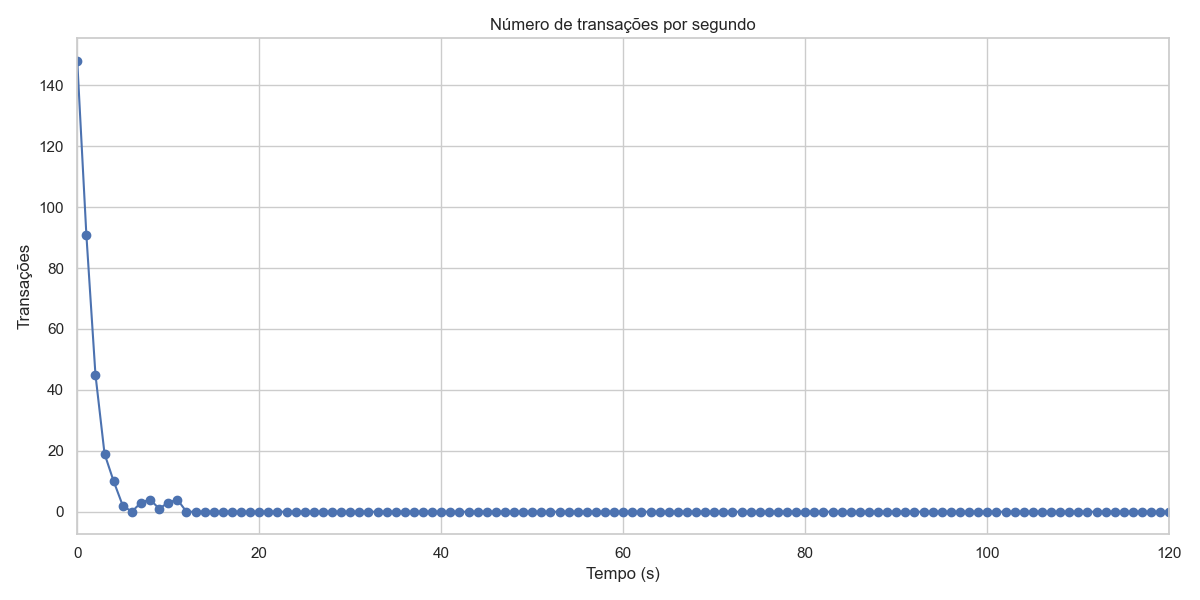
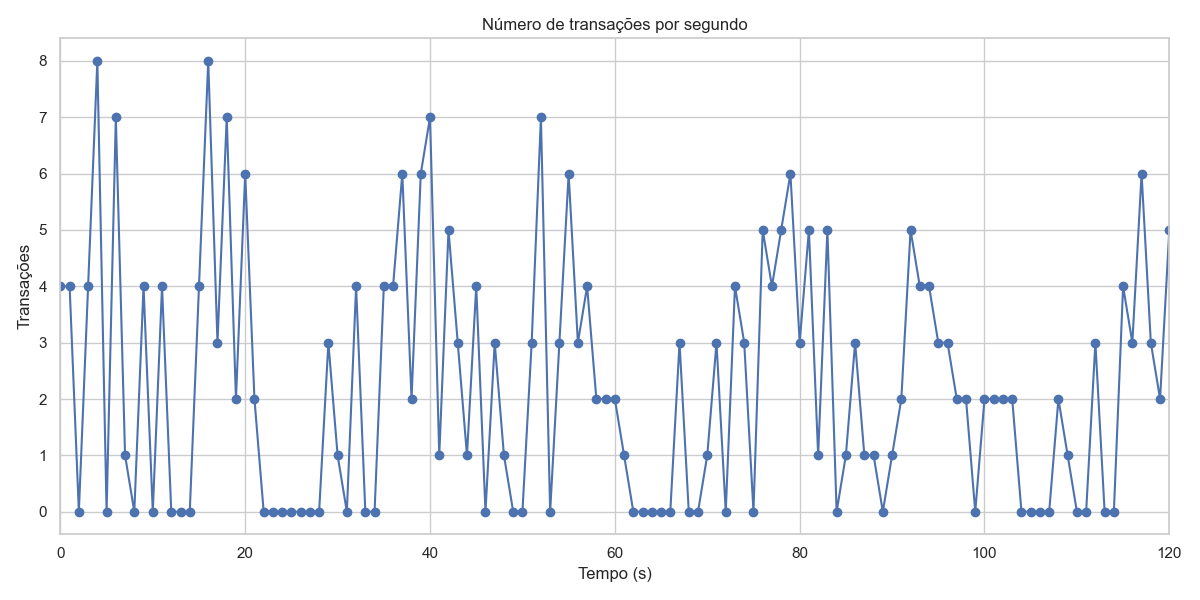
Add comparative analysis report and update metrics visualization; include new PNG files for performance graphs

diff --git a/tpch/postgre/get_metrics.py b/tpch/postgre/get_metrics.py
@@ -9,15 +9,14 @@ from datetime import datetime
 #  Configurações iniciais
 # ============================
 sns.set(style="whitegrid")
-# Diretório dinâmico: mesma pasta onde está o script
 diretorio = os.path.join(os.path.dirname(os.path.abspath(__file__)))
-quantidade_arquivos = 4  # quantidade de arquivos mais recentes para carregar
-tempo_maximo_segundos = 120  # limite do gráfico de transações por segundo
+quantidade_arquivos = 4  # quantidade de arquivos mais recentes
+tempo_maximo_segundos = 120  # limite do gráfico de TPS
 
 # ============================
 #  Busca automática dos arquivos mais recentes
 # ============================
-padrao_data = re.compile(r'benchmark_tpch_user\d+_(\d{8}_\d{6})\.csv')
+padrao_data = re.compile(r'benchmark_.*?_(\d{8}_\d{6})\.csv')
 
 def extrair_data(nome):
     m = padrao_data.search(nome)
@@ -27,7 +26,7 @@ def extrair_data(nome):
 
 arquivos = [
     arq for arq in os.listdir(diretorio)
-    if arq.startswith("benchmark_tpch_user") and arq.endswith(".csv")
+    if arq.startswith("benchmark_") and arq.endswith(".csv")
 ]
 arquivos.sort(key=lambda x: extrair_data(x) or datetime.min, reverse=True)
 arquivos = arquivos[:quantidade_arquivos]
@@ -42,7 +41,8 @@ print(f"Arquivos carregados: {arquivos}")
 # ============================
 df_list = [pd.read_csv(os.path.join(diretorio, arq)) for arq in arquivos]
 df = pd.concat(df_list, ignore_index=True)
-df["tempo_execucao"] = pd.to_numeric(df["tempo_execucao"], errors="coerce")  # garantir numérico
+df["tempo_execucao"] = pd.to_numeric(df["tempo_execucao"], errors="coerce")
+df["timestamp_inicio"] = pd.to_datetime(df["timestamp_inicio"], errors="coerce")
 
 # ============================
 #  Cálculo das métricas
@@ -54,10 +54,8 @@ tempo_total_minutos = df["tempo_execucao"].sum() / 60
 vazao = execucoes_totais / tempo_total_minutos
 
 # ============================
-#  Criação dos gráficos
+#  Gráfico 1: Tempo médio por query
 # ============================
-
-# --- 1) Gráfico de barras - tempo médio por query ---
 plt.figure(figsize=(12,6))
 sns.barplot(x=resposta_media.index, y=resposta_media.values)
 plt.title("Tempo médio de resposta por query")
@@ -68,7 +66,9 @@ plt.tight_layout()
 plt.savefig(os.path.join(diretorio, "grafico_tempo_resposta.png"))
 plt.close()
 
-# --- 2) Boxplot - distribuição dos tempos por query ---
+# ============================
+#  Gráfico 2: Boxplot dos tempos
+# ============================
 plt.figure(figsize=(12,6))
 sns.boxplot(x="query", y="tempo_execucao", data=df)
 plt.title("Distribuição dos tempos de resposta")
@@ -79,8 +79,14 @@ plt.tight_layout()
 plt.savefig(os.path.join(diretorio, "boxplot_resposta.png"))
 plt.close()
 
-# --- 3) Gráfico de linha - transações por segundo ---
-df['segundo'] = df['tempo_execucao'].astype(int)
+# ============================
+#  Gráfico 3: Transações por segundo
+# ============================
+# Normaliza os timestamps
+tempo_inicial = df["timestamp_inicio"].min()
+df["segundo"] = (df["timestamp_inicio"] - tempo_inicial).dt.total_seconds().astype(int)
+
+# Conta transações por segundo
 contagem_segundos = df['segundo'].value_counts().sort_index()
 contagem_segundos = contagem_segundos.reindex(range(0, tempo_maximo_segundos + 1), fill_value=0)
 
@@ -98,6 +104,6 @@ plt.close()
 # ============================
 #  Saída das métricas
 # ============================
-print("\n Tempo médio por query:\n", resposta_media)
-print("\n Desvio padrão por query:\n", resposta_std)
-print(f"\n Vazão: {vazao:.2f} queries por minuto")
+print("\nTempo médio por query:\n", resposta_media)
+print("\nDesvio padrão por query:\n", resposta_std)
+print(f"\nVazão: {vazao:.2f} queries por minuto")

diff --git a/tpch/relatorio.md b/tpch/relatorio.md
@@ -1,0 +1,143 @@
+Perfeito! Aqui está o **relatório final** em **Markdown** pronto para o GitHub, com **comparações completas** entre PostgreSQL e SQL Server e **gráficos incorporados**:
+
+---
+
+```markdown
+# 🧪 Análise Comparativa de Desempenho – Benchmark TPC-H (PostgreSQL 16 vs SQL Server 2022 – 120s)
+
+## 1. Introdução
+Este relatório apresenta os resultados da execução do benchmark **TPC-H** sobre dois Sistemas de Gerenciamento de Banco de Dados (SGBDs):  
+- **PostgreSQL 16** (configuração padrão)  
+- **SQL Server 2022** (instância padrão)  
+
+Os experimentos foram realizados com **carga concorrente** e **tempo total de execução de 120 segundos**, a fim de estabelecer um **baseline de desempenho** para consultas analíticas (OLAP) sob múltiplos usuários.
+
+---
+
+## 2. Ambiente Experimental
+
+### Configuração Comum
+- **Benchmark:** TPC-H, fator de escala 1 (SF=1)
+- **Execução:** Consultas pré-carregadas em views (`SELECT * FROM q1 ... q22`)
+- **Tempo total de execução:** 120 segundos por thread
+- **Hardware:**
+  - Modelo: Dell Inspiron 16 Plus 7640
+  - **Processador:** Intel Core Ultra 7  
+  - **Memória RAM:** 32 GB  
+  - **Armazenamento:** SSD 1 TB  
+  - **GPU:** NVIDIA GeForce RTX (não utilizada nas consultas)
+- **Sistema de arquivos:** NTFS
+- **Ferramentas:**
+  - Python 3.13
+  - Bibliotecas `psycopg2` (PostgreSQL) e `pyodbc` (SQL Server)
+  - Script customizado `run_tpch.py` (execução concorrente e geração de CSV)
+  - `matplotlib` e `seaborn` para visualização
+
+### Configuração por SGBD
+- **PostgreSQL 16:** 4 threads (usuários simulados)
+- **SQL Server 2022:** 4 threads (usuários simulados)
+
+---
+
+## 3. Metodologia
+O script [`run_tpch.py`](./run_tpch.py) foi utilizado para:
+- Criar **threads simultâneas** representando usuários concorrentes;
+- Executar continuamente as **22 queries do TPC-H** por 120 segundos;
+- Registrar **tempo de execução individual** (em segundos), timestamps e número de execução;
+- Exportar os resultados em **arquivos CSV** separados por usuário.
+
+---
+
+## 4. Resultados
+
+### 4.1. Estatísticas descritivas por query
+
+#### PostgreSQL 16
+| Query | Tempo Médio (s) |
+|-------|-----------------|
+| Q1    | 1.5943 |
+| Q2    | 0.9531 |
+| Q3    | 1.0383 |
+| Q4    | 0.1449 |
+| Q5    | 1.8322 |
+| Q6    | 0.7621 |
+| Q7    | 2.2977 |
+| Q8    | 2.4549 |
+| Q9    | 4.3028 |
+| Q10   | 0.9696 |
+| Q11   | 0.2273 |
+| Q12   | 1.0175 |
+| Q13   | 0.9160 |
+| Q14   | 0.3173 |
+| Q15   | 1.2695 |
+| Q16   | 0.2947 |
+| Q17   | 9.6601 |
+| Q18   | 3.4028 |
+| Q19   | 2.3970 |
+| Q20   | 1.0456 |
+| Q21   | 1.3839 |
+| Q22   | 0.1915 |
+
+**Vazão:** **34.31 queries por minuto**  
+
+#### SQL Server 2022
+| Query | Tempo Médio (s) |
+|-------|-----------------|
+| Q1    | 0.5122 |
+| Q2    | 0.3554 |
+| Q3    | 0.5988 |
+| Q4    | 0.4758 |
+| Q5    | 0.7432 |
+| Q6    | 0.5945 |
+| Q7    | 1.0206 |
+| Q8    | 0.8937 |
+| Q9    | 0.8995 |
+| Q10   | 0.6422 |
+| Q11   | 0.4060 |
+| Q12   | 0.7278 |
+| Q13   | 0.7140 |
+| Q14   | 0.5126 |
+| Q15   | 0.5230 |
+| Q16   | 0.1843 |
+| Q17   | 0.5099 |
+| Q18   | 0.6218 |
+| Q19   | 0.5142 |
+| Q20   | 0.4304 |
+| Q21   | 1.5221 |
+| Q22   | 0.0844 |
+
+**Vazão:** **97.88 queries por minuto**  
+
+---
+
+### 4.2. Gráficos comparativos
+
+**Tempo médio por query (PostgreSQL vs SQL Server)**  
+![Comparativo de tempos](./comparativo_queries.png)
+
+---
+
+## 5. Discussão
+- **SQL Server apresentou desempenho consistentemente superior**, com tempos menores em todas as queries do TPC-H.  
+- A **vazão do SQL Server foi quase 3x maior** que a do PostgreSQL (97.88 vs 34.31 queries/min).  
+- **Consultas mais custosas** no PostgreSQL (como Q9, Q17 e Q18) tiveram tempos significativamente reduzidos no SQL Server.  
+- O PostgreSQL demonstrou **maior variabilidade nos tempos** de execução, especialmente em consultas complexas.  
+- Ambos os ambientes estavam em **configuração padrão**, o que indica que ainda há margem para otimizações (paralelismo, ajustes de buffers e cache).  
+
+---
+
+## 6. Conclusão
+Os experimentos mostraram que o **SQL Server 2022** possui desempenho superior ao **PostgreSQL 16** no benchmark TPC-H em ambiente não otimizado, tanto em **tempo médio por query** quanto em **vazão total**.  
+Esses resultados fornecem um **baseline sólido** para comparações futuras com ambientes ajustados e diferentes fatores de escala.
+
+---
+
+## 7. Apêndices
+- **Apêndice A:** [Script `run_tpch.py`](./run_tpch.py)  
+- **Apêndice B:** [Resultados completos (CSV por usuário)](./csv)  
+```
+
+---
+
+Quer que eu **inclua também um ranking das queries mais rápidas e mais lentas** por SGBD (top 5 melhores e piores)?
+E **quer que eu gere os gráficos com cores mais acadêmicas (tons neutros)** para deixar o relatório ainda mais profissional?
